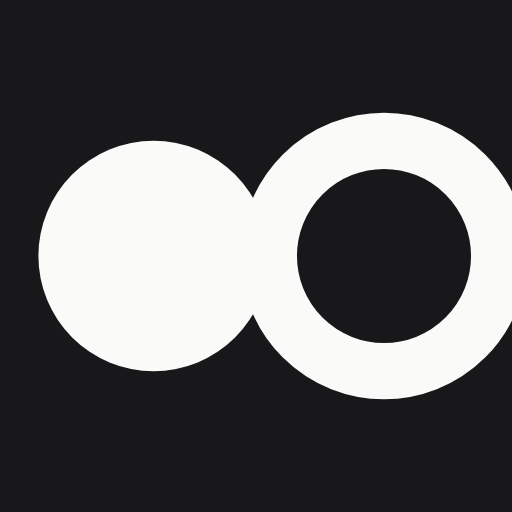
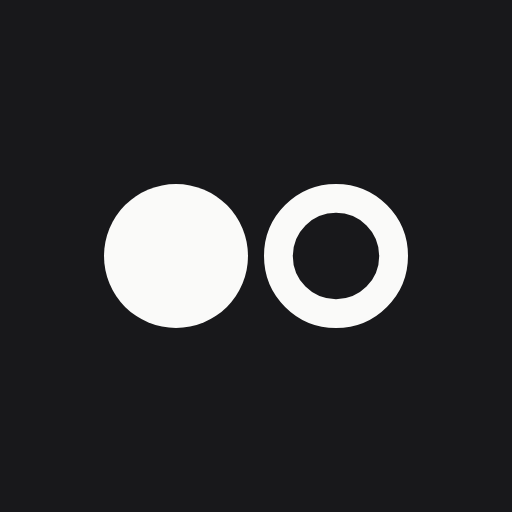
The Sala: marca centrada e ícones do app refeitos em alta resolução
Claude-Session: https://claude.ai/code/session_013G5pCeGJAnqpoVpjkr7VyH

Changed region(s): [[0.0625, 0.2188, 1.0, 0.7812], [0.5625, 0.4375, 0.5938, 0.5625]]

diff --git a/sala/web/index.html b/sala/web/index.html
@@ -7,8 +7,8 @@
 <meta name="theme-color" content="#0E0E10" media="(prefers-color-scheme: dark)">
 <title>The Sala</title>
 <meta name="description" content="Pessoas e os agentes delas na mesma conversa. Cada um traz o Claude, o ChatGPT, o Gemini ou o agente que já assina. Grátis.">
-<link rel="icon" href="/icone.svg" type="image/svg+xml">
-<link rel="apple-touch-icon" href="/apple-touch-icon.png">
+<link rel="icon" href="/icone.svg?v=2" type="image/svg+xml">
+<link rel="apple-touch-icon" href="/apple-touch-icon.png?v=2">
 <link rel="manifest" href="/manifest.webmanifest">
 <meta name="apple-mobile-web-app-capable" content="yes">
 <meta name="apple-mobile-web-app-title" content="The Sala">

diff --git a/sala/web/src/components/Icones.tsx b/sala/web/src/components/Icones.tsx
@@ -29,8 +29,8 @@ export const Marca = () => (
   <div className="marca">
     <svg width="28" height="28" viewBox="0 0 32 32" aria-hidden>
       <rect width="32" height="32" rx="8" fill="currentColor" />
-      <circle cx="12" cy="16" r="4.5" fill="var(--fundo)" />
-      <circle cx="21" cy="16" r="4.5" fill="none" stroke="var(--fundo)" strokeWidth="2.2" />
+      <circle cx="11" cy="16" r="4.5" fill="var(--fundo)" />
+      <circle cx="21" cy="16" r="3.6" fill="none" stroke="var(--fundo)" strokeWidth="1.8" />
     </svg>
     <span>The Sala</span>
   </div>
